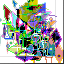
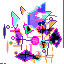
2nd draft of "Glitch" sprite

diff --git a/js/game-assets.js b/js/game-assets.js
@@ -14,7 +14,7 @@ import * as asset_system from "./system/assets.js";
 const game_assets = { // Description of the assets to load.
     images : { // group "images"
         asset_loader : asset_system.image_loader, // This is the function that will be used to convert the following data into usable objects.
-        player: "./images/virus.png",
+        player: "./images/glitch-draft.png",
         test_enemy: "./images/test_enemy.png",
         tileset_entry_exit : "./images/portalinout.png",
         ground_template : "./images/ground_template.png",
